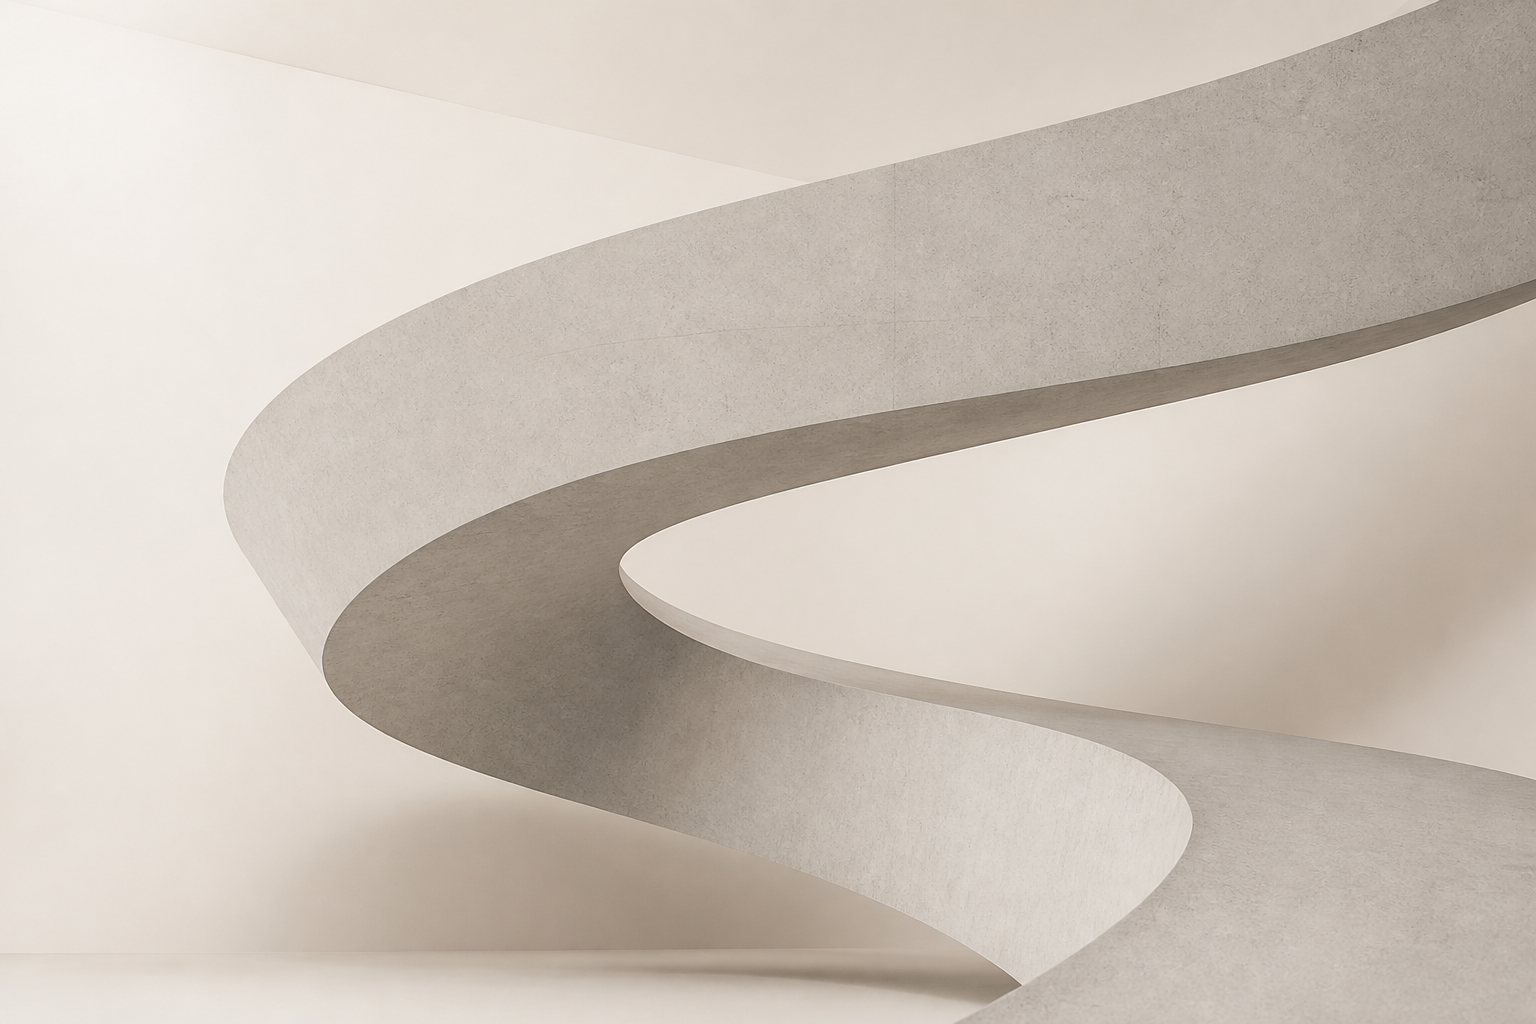
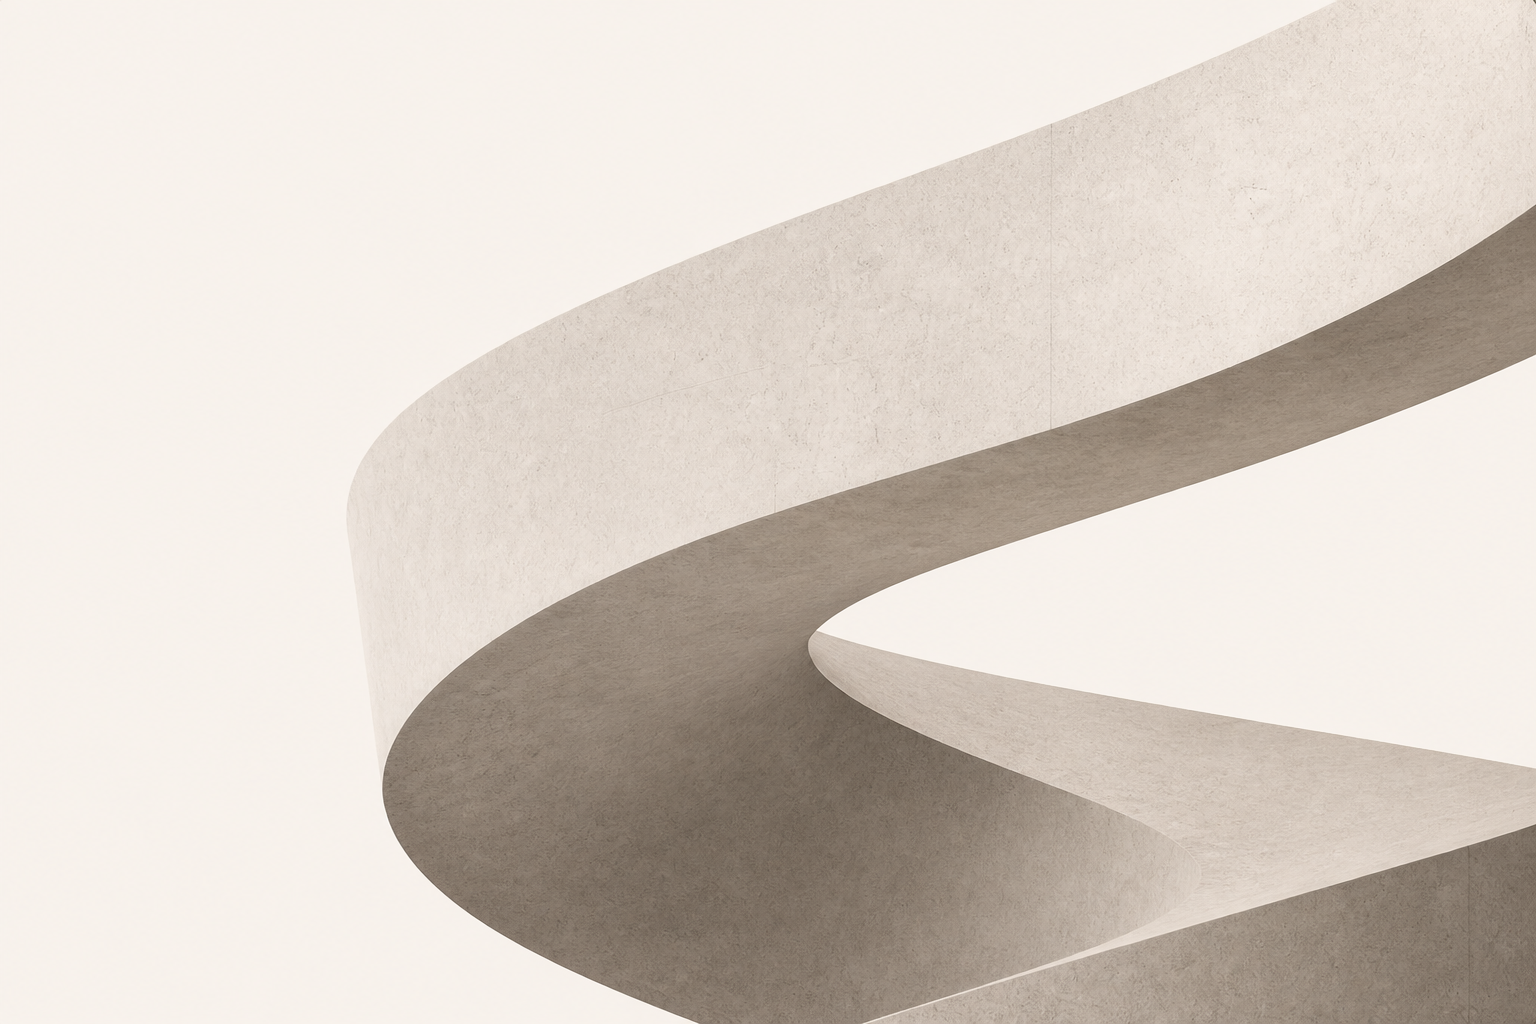
Recreate hero as one architectural composition, not a two-column IT landing.
Monumental concrete fragment bleeds into the page plane; lighter type, quieter nav, near-invisible grid, and engineering pillars restore museum-catalogue scale contrast.

diff --git a/src/components/home/Hero.tsx b/src/components/home/Hero.tsx
@@ -8,7 +8,7 @@ import { Button } from "@/components/ui/Button";
 import BidiBlock from "@/components/ui/BidiBlock";
 
 const PILLARS = ["STRATEGY", "ARCHITECTURE", "DEVELOPMENT", "AUTOMATION", "SUPPORT"] as const;
-const MAX_TILT = 0.5;
+const MAX_TILT = 0.35;
 
 export default function Hero() {
   const t = useTranslations("home.hero");
@@ -45,32 +45,61 @@ export default function Hero() {
   }, []);
 
   return (
-    <section className="relative flex min-h-[calc(100svh-70px)] flex-col overflow-hidden">
-      <div className="blueprint-grid pointer-events-none absolute inset-0 opacity-[0.45]" />
+    <section className="relative flex min-h-[calc(100svh-64px)] flex-col overflow-hidden">
+      {/* Step 5 — grid almost invisible */}
+      <div className="blueprint-grid pointer-events-none absolute inset-0 opacity-[0.22]" />
 
-      <div className="pointer-events-none absolute inset-x-0 top-0 eng-line-h" />
-      <div className="pointer-events-none absolute inset-y-0 left-[var(--page-pad)] hidden eng-line-v lg:block" />
+      {/* Step 1+2 — monumental sculpture as page plane, not a right column card */}
+      <div
+        ref={artRef}
+        className="pointer-events-auto absolute inset-0 z-0"
+        style={{ perspective: "1400px" }}
+        aria-hidden="true"
+      >
+        <div
+          className="absolute -top-[10%] -right-[8%] bottom-[-12%] left-[42%] transition-transform duration-500 ease-out will-change-transform sm:left-[34%] lg:left-[33%] xl:left-[35%]"
+          style={{
+            transform: `rotateX(${tilt.x}deg) rotateY(${tilt.y}deg)`,
+          }}
+        >
+          <Image
+            src="/images/hero-concrete-ribbon.png"
+            alt=""
+            fill
+            priority
+            sizes="(max-width: 1024px) 85vw, 68vw"
+            className="object-cover object-[12%_46%] sm:object-[16%_44%] lg:object-[20%_42%] scale-[1.08]"
+          />
+        </div>
 
-      <div className="chrome-ltr relative mx-auto grid w-full max-w-[var(--page-max)] flex-1 grid-cols-1 lg:grid-cols-[minmax(0,44%)_minmax(0,56%)]">
-        {/* Copy column — airy stack matching mock proportions */}
-        <div className="relative z-10 flex flex-col justify-center px-[var(--page-pad)] pt-16 pb-12 sm:pt-[12vh] lg:pt-[14vh] lg:pb-16">
+        {/* Soft blend into page bg — no framed rectangle */}
+        <div className="pointer-events-none absolute inset-y-0 left-0 w-[52%] bg-gradient-to-r from-bg from-35% via-bg/85 to-transparent sm:w-[42%] lg:w-[40%]" />
+        <div className="pointer-events-none absolute inset-x-0 top-0 h-20 bg-gradient-to-b from-bg/35 to-transparent" />
+        <div className="pointer-events-none absolute inset-x-0 bottom-0 h-24 bg-gradient-to-t from-bg/50 to-transparent" />
+      </div>
+
+      {/* Copy — airy, lighter weight; sits in the left field of one composition */}
+      <div className="chrome-ltr relative z-10 mx-auto flex w-full max-w-[var(--page-max)] flex-1 flex-col">
+        <div className="relative flex flex-1 flex-col justify-center px-[var(--page-pad)] pt-20 pb-16 sm:pt-[11vh] lg:pt-[12vh] lg:pb-20">
           <BidiBlock>
-            <div className="animate-fade-up chrome-ltr mb-6 inline-flex items-center gap-3 lg:mb-8">
-              <span className="eng-marker" aria-hidden="true" />
-              <span className="label-mono text-muted">{t("eyebrow")}</span>
+            <div className="animate-fade-up chrome-ltr mb-8 inline-flex items-center gap-3 lg:mb-10">
+              <span className="eng-marker opacity-70" aria-hidden="true" />
+              <span className="label-mono text-[10px] tracking-[0.32em] text-muted/80">
+                {t("eyebrow")}
+              </span>
             </div>
 
-            <h1 className="animate-fade-up max-w-[12ch] text-[2.25rem] font-medium leading-[1.05] tracking-tight text-text sm:max-w-[16ch] sm:text-[3.1rem] lg:max-w-[15ch] lg:text-[3.55rem] xl:text-[3.9rem]">
+            <h1 className="animate-fade-up max-w-[11ch] text-[2.1rem] font-light leading-[1.18] tracking-[-0.01em] text-text sm:max-w-[14ch] sm:text-[2.85rem] lg:max-w-[13ch] lg:text-[3.35rem] xl:text-[3.65rem]">
               <span className="text-content">{t("titleBefore")}</span>
               <span className="hero-accent">{t("titleAccent")}</span>
               <span className="text-content">{t("titleAfter")}</span>
             </h1>
 
-            <p className="animate-fade-up mt-5 max-w-[26rem] text-[0.95rem] leading-[1.7] text-muted sm:mt-6 sm:text-base lg:mt-7 lg:max-w-[27rem] lg:text-[1.05rem]">
+            <p className="animate-fade-up mt-7 max-w-[22rem] text-[0.92rem] font-light leading-[1.85] text-muted sm:mt-8 sm:max-w-[24rem] sm:text-[0.98rem] lg:mt-9 lg:max-w-[25rem]">
               {t("subtitle")}
             </p>
 
-            <div className="animate-fade-up mt-8 flex flex-wrap items-center gap-x-9 gap-y-4 sm:mt-10">
+            <div className="animate-fade-up mt-10 flex flex-wrap items-center gap-x-10 gap-y-4 sm:mt-12">
               <Button href="/services" variant="primary">
                 {t("cta")}
               </Button>
@@ -79,68 +108,58 @@ export default function Hero() {
               </Button>
             </div>
           </BidiBlock>
-        </div>
 
-        {/* Ribbon column — smaller art in right zone; pillars bridge text ↔ sculpture */}
-        <div
-          ref={artRef}
-          className="relative min-h-[280px] w-full sm:min-h-[360px] lg:min-h-0"
-          style={{ perspective: "1200px" }}
-        >
-          <div className="pointer-events-none absolute top-[22%] bottom-[30%] left-[2%] z-20 hidden lg:flex xl:left-[4%]">
-            <div className="relative flex flex-col justify-between py-1 pr-4">
-              <div className="absolute top-1 bottom-1 right-0 w-px bg-[rgba(80,70,60,0.22)]" />
-              <div className="absolute top-1 right-0 h-px w-10 translate-x-full bg-[rgba(80,70,60,0.22)]" />
+          {/* Step 4 — strategy pillars as engineering schematic in the mid zone */}
+          <div className="pointer-events-none absolute top-[26%] bottom-[28%] left-[min(52%,calc(100%-11rem))] z-20 hidden lg:block xl:left-[54%]">
+            <div className="relative flex h-full flex-col justify-between py-2">
+              {/* Vertical guide */}
+              <div className="absolute top-0 bottom-0 left-[calc(100%-1px)] w-px bg-[rgba(80,70,60,0.18)]" />
+              {/* Long horizontal datum across mid field toward sculpture */}
+              <div className="absolute top-1/2 right-0 h-px w-[min(28vw,220px)] translate-x-full -translate-y-1/2 bg-[rgba(80,70,60,0.14)]" />
+
               {PILLARS.map((label, i) => (
                 <div key={label} className="relative flex items-center justify-end gap-3 pr-3">
-                  <span className="label-mono text-[10px] tracking-[0.16em] text-muted/70">
+                  <span className="label-mono text-[9px] tracking-[0.2em] text-muted/55">
                     {label}
                   </span>
+                  {/* Tick + square terminal */}
                   <span
-                    className={`eng-marker absolute right-[-2px] ${i % 2 === 1 ? "opacity-45" : ""}`}
+                    className="absolute right-0 top-1/2 h-px w-5 -translate-y-1/2 bg-[rgba(80,70,60,0.2)]"
+                    aria-hidden="true"
+                  />
+                  <span
+                    className={`eng-marker absolute right-[-2px] top-1/2 -translate-y-1/2 ${
+                      i % 2 === 1 ? "opacity-40" : "opacity-75"
+                    }`}
+                    aria-hidden="true"
                   />
                 </div>
               ))}
             </div>
           </div>
+        </div>
 
-          <div
-            className="absolute top-[6%] bottom-[-4%] left-[14%] -right-[5%] transition-transform duration-300 ease-out will-change-transform sm:left-[18%] lg:left-[16%] lg:-right-[4%]"
-            style={{
-              transform: `rotateX(${tilt.x}deg) rotateY(${tilt.y}deg)`,
-            }}
-          >
-            <Image
-              src="/images/hero-concrete-ribbon.png"
-              alt=""
-              fill
-              priority
-              sizes="(max-width: 1024px) 100vw, 48vw"
-              className="object-contain object-right-bottom lg:object-[78%_42%]"
-            />
+        {/* Step 7 — bottom bar as unifier across the composition */}
+        <div className="chrome-ltr relative z-10 mx-[var(--page-pad)] flex items-center justify-between gap-4 border-t border-[rgba(80,70,60,0.14)] py-3.5">
+          <div className="flex min-w-0 items-center gap-3">
+            <span
+              className="relative inline-flex h-3.5 w-3.5 shrink-0 items-center justify-center"
+              aria-hidden="true"
+            >
+              <span className="absolute inset-0 rounded-full border border-border-strong/70" />
+              <span className="absolute inset-[2.5px] rounded-full border border-accent/80" />
+              <span className="absolute left-1/2 top-0 h-full w-px -translate-x-1/2 bg-border-strong/70" />
+              <span className="absolute top-1/2 left-0 h-px w-full -translate-y-1/2 bg-border-strong/70" />
+            </span>
+            <span className="label-mono truncate text-[10px] tracking-[0.22em] text-muted/70">
+              {t("pillars")}
+            </span>
           </div>
-
-          <div className="pointer-events-none absolute inset-y-0 left-0 w-[30%] bg-gradient-to-r from-bg via-bg/55 to-transparent lg:w-[22%]" />
-        </div>
-      </div>
-
-      <div className="chrome-ltr relative z-10 mx-auto flex w-full max-w-[var(--page-max)] items-center justify-between gap-4 border-t border-border px-[var(--page-pad)] py-4">
-        <div className="flex min-w-0 items-center gap-3">
-          <span
-            className="relative inline-flex h-4 w-4 shrink-0 items-center justify-center"
-            aria-hidden="true"
-          >
-            <span className="absolute inset-0 rounded-full border border-border-strong" />
-            <span className="absolute inset-[3px] rounded-full border border-accent" />
-            <span className="absolute left-1/2 top-0 h-full w-px -translate-x-1/2 bg-border-strong" />
-            <span className="absolute top-1/2 left-0 h-px w-full -translate-y-1/2 bg-border-strong" />
+          <span className="label-mono hidden shrink-0 items-center gap-2 text-[10px] tracking-[0.22em] text-muted/70 sm:inline-flex">
+            {t("scrollHint")}
+            <ArrowDown className="h-3 w-3" strokeWidth={1.25} aria-hidden="true" />
           </span>
-          <span className="label-mono truncate text-muted">{t("pillars")}</span>
         </div>
-        <span className="label-mono hidden shrink-0 items-center gap-2.5 text-muted sm:inline-flex">
-          {t("scrollHint")}
-          <ArrowDown className="h-3.5 w-3.5" strokeWidth={1.5} aria-hidden="true" />
-        </span>
       </div>
     </section>
   );

diff --git a/src/components/layout/Header.tsx b/src/components/layout/Header.tsx
@@ -25,11 +25,11 @@ export default function Header() {
 
   return (
     <>
-      <header className="fixed inset-x-0 top-0 z-50 border-b border-border/80 bg-bg/85 backdrop-blur-[2px]">
-        <div className="chrome-ltr mx-auto flex w-full max-w-[var(--page-max)] items-center justify-between px-[var(--page-pad)] py-4">
-          <MethodaLogo size={26} />
+      <header className="fixed inset-x-0 top-0 z-50 border-b border-border/50 bg-bg/70 backdrop-blur-[1.5px]">
+        <div className="chrome-ltr mx-auto flex w-full max-w-[var(--page-max)] items-center justify-between px-[var(--page-pad)] py-5">
+          <MethodaLogo size={22} />
 
-          <nav className="hidden items-center gap-10 xl:gap-12 lg:flex">
+          <nav className="hidden items-center gap-11 xl:gap-14 lg:flex">
             {navKeys.map((key) => {
               const href = navHrefs[key];
               const active = pathname === href;
@@ -38,8 +38,8 @@ export default function Header() {
                   key={key}
                   href={href}
                   className={clsx(
-                    "label-mono text-content transition-colors duration-200",
-                    active ? "text-text" : "text-muted hover:text-text",
+                    "label-mono text-content text-[10px] font-normal tracking-[0.3em] transition-colors duration-200",
+                    active ? "text-text" : "text-muted/75 hover:text-text",
                   )}
                 >
                   {t(key)}
@@ -48,31 +48,31 @@ export default function Header() {
             })}
           </nav>
 
-          <div className="hidden items-center gap-4 lg:flex">
+          <div className="hidden items-center gap-5 lg:flex">
             <Link
               href="/contact"
-              className="chrome-ltr inline-flex h-[44px] items-center gap-2.5 border border-border-strong px-4 text-[11px] font-normal tracking-[0.22em] uppercase text-text transition-colors hover:border-accent-secondary"
+              className="chrome-ltr inline-flex h-[38px] items-center gap-2 border border-border-strong/80 px-3.5 text-[10px] font-normal tracking-[0.28em] uppercase text-text/90 transition-colors hover:border-accent-secondary"
               style={{ fontFamily: "var(--font-geist-mono), ui-monospace, monospace" }}
             >
-              <LayoutGrid className="h-3.5 w-3.5 opacity-70" strokeWidth={1.5} />
+              <LayoutGrid className="h-3 w-3 opacity-60" strokeWidth={1.25} />
               <span>{t("letsTalk")}</span>
-              <ArrowRight className="h-3.5 w-3.5" strokeWidth={1.5} />
+              <ArrowRight className="h-3 w-3" strokeWidth={1.25} />
             </Link>
-            <LanguageSwitcher />
+            <LanguageSwitcher className="[&_button]:text-[10px] [&_button]:tracking-[0.26em]" />
           </div>
 
           <button
             type="button"
             onClick={() => setMenuOpen(true)}
             aria-label={t("menu")}
-            className="flex h-10 w-10 items-center justify-center border border-border text-text lg:hidden"
+            className="flex h-9 w-9 items-center justify-center border border-border text-text lg:hidden"
           >
-            <Menu className="h-5 w-5" strokeWidth={1.5} />
+            <Menu className="h-4 w-4" strokeWidth={1.25} />
           </button>
         </div>
       </header>
       <MobileMenu open={menuOpen} onClose={() => setMenuOpen(false)} />
-      <div className="h-[70px]" aria-hidden="true" />
+      <div className="h-[64px]" aria-hidden="true" />
     </>
   );
 }

diff --git a/src/app/globals.css b/src/app/globals.css
@@ -14,7 +14,7 @@
   --color-button: #111111;
   --color-button-hover: #232323;
   --color-on-button: #f7f3ee;
-  --grid-line: rgba(80, 70, 60, 0.08);
+  --grid-line: rgba(80, 70, 60, 0.035);
   --logo-mark-stroke: transparent;
   --page-max: 1600px;
   --content-max: 1440px;
@@ -112,12 +112,13 @@ html[lang="ar"] body {
   animation: fade-up 0.7s cubic-bezier(0.16, 1, 0.3, 1) both;
 }
 
-/* Engineering grid — thin 1px lines */
+/* Engineering grid — nearly imperceptible hairlines + intersection dots */
 .blueprint-grid {
   background-image:
+    radial-gradient(rgba(80, 70, 60, 0.055) 0.55px, transparent 0.65px),
     linear-gradient(var(--grid-line) 1px, transparent 1px),
     linear-gradient(90deg, var(--grid-line) 1px, transparent 1px);
-  background-size: 64px 64px;
+  background-size: 72px 72px, 72px 72px, 72px 72px;
 }
 
 .eng-line-h {
@@ -132,18 +133,17 @@ html[lang="ar"] body {
 
 .eng-marker {
   display: inline-block;
-  width: 4px;
-  height: 4px;
+  width: 3px;
+  height: 3px;
   flex-shrink: 0;
   background: var(--color-accent);
 }
 
-/* Headline accent — warm sand, slight italic serif (mock "intelligent") */
+/* Headline accent — warm sand, same face, not a loud separate object */
 .hero-accent {
   color: var(--color-accent);
-  font-family: Georgia, "Iowan Old Style", "Palatino Linotype", Palatino, serif;
-  font-style: italic;
-  font-weight: 400;
+  font-weight: 300;
+  font-style: normal;
 }
 
 /* Primary button base (architectural, no glow/gradient) */

diff --git a/src/components/brand/MethodaLogo.tsx b/src/components/brand/MethodaLogo.tsx
@@ -41,7 +41,7 @@ export default function MethodaLogo({
       </svg>
       {showWordmark && (
         <span
-          className="text-[15px] font-medium tracking-[0.22em] text-text uppercase sm:text-[16px]"
+          className="text-[13px] font-normal tracking-[0.28em] text-text uppercase sm:text-[14px]"
           style={{ fontFamily: "var(--font-latin), system-ui, sans-serif" }}
         >
           METHODEA

diff --git a/src/lib/fonts.ts b/src/lib/fonts.ts
@@ -8,7 +8,7 @@ import {
 export const fontLatin = Geist({
   variable: "--font-latin",
   subsets: ["latin", "cyrillic"],
-  weight: ["400", "500", "600"],
+  weight: ["300", "400", "500", "600"],
   display: "swap",
 });
 
